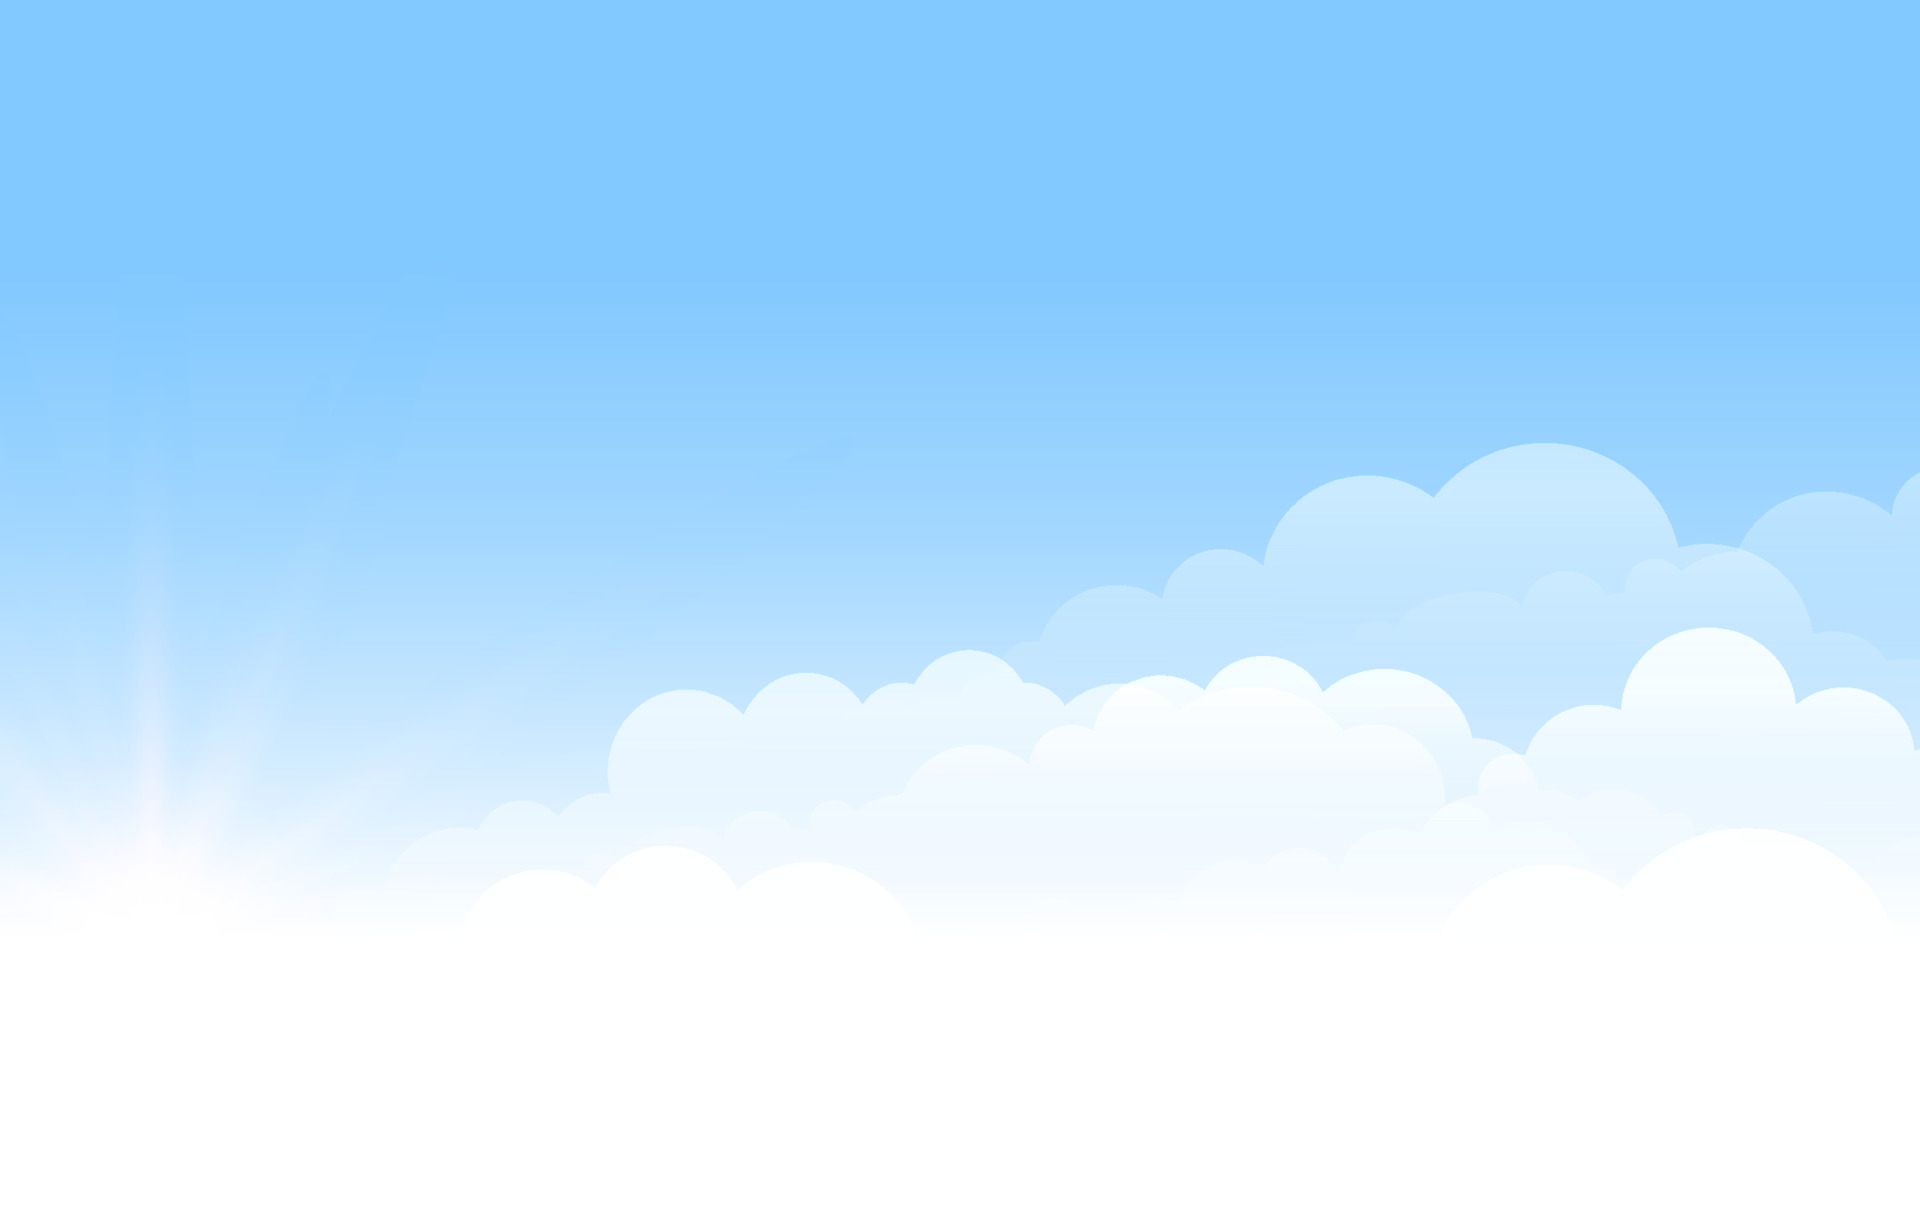
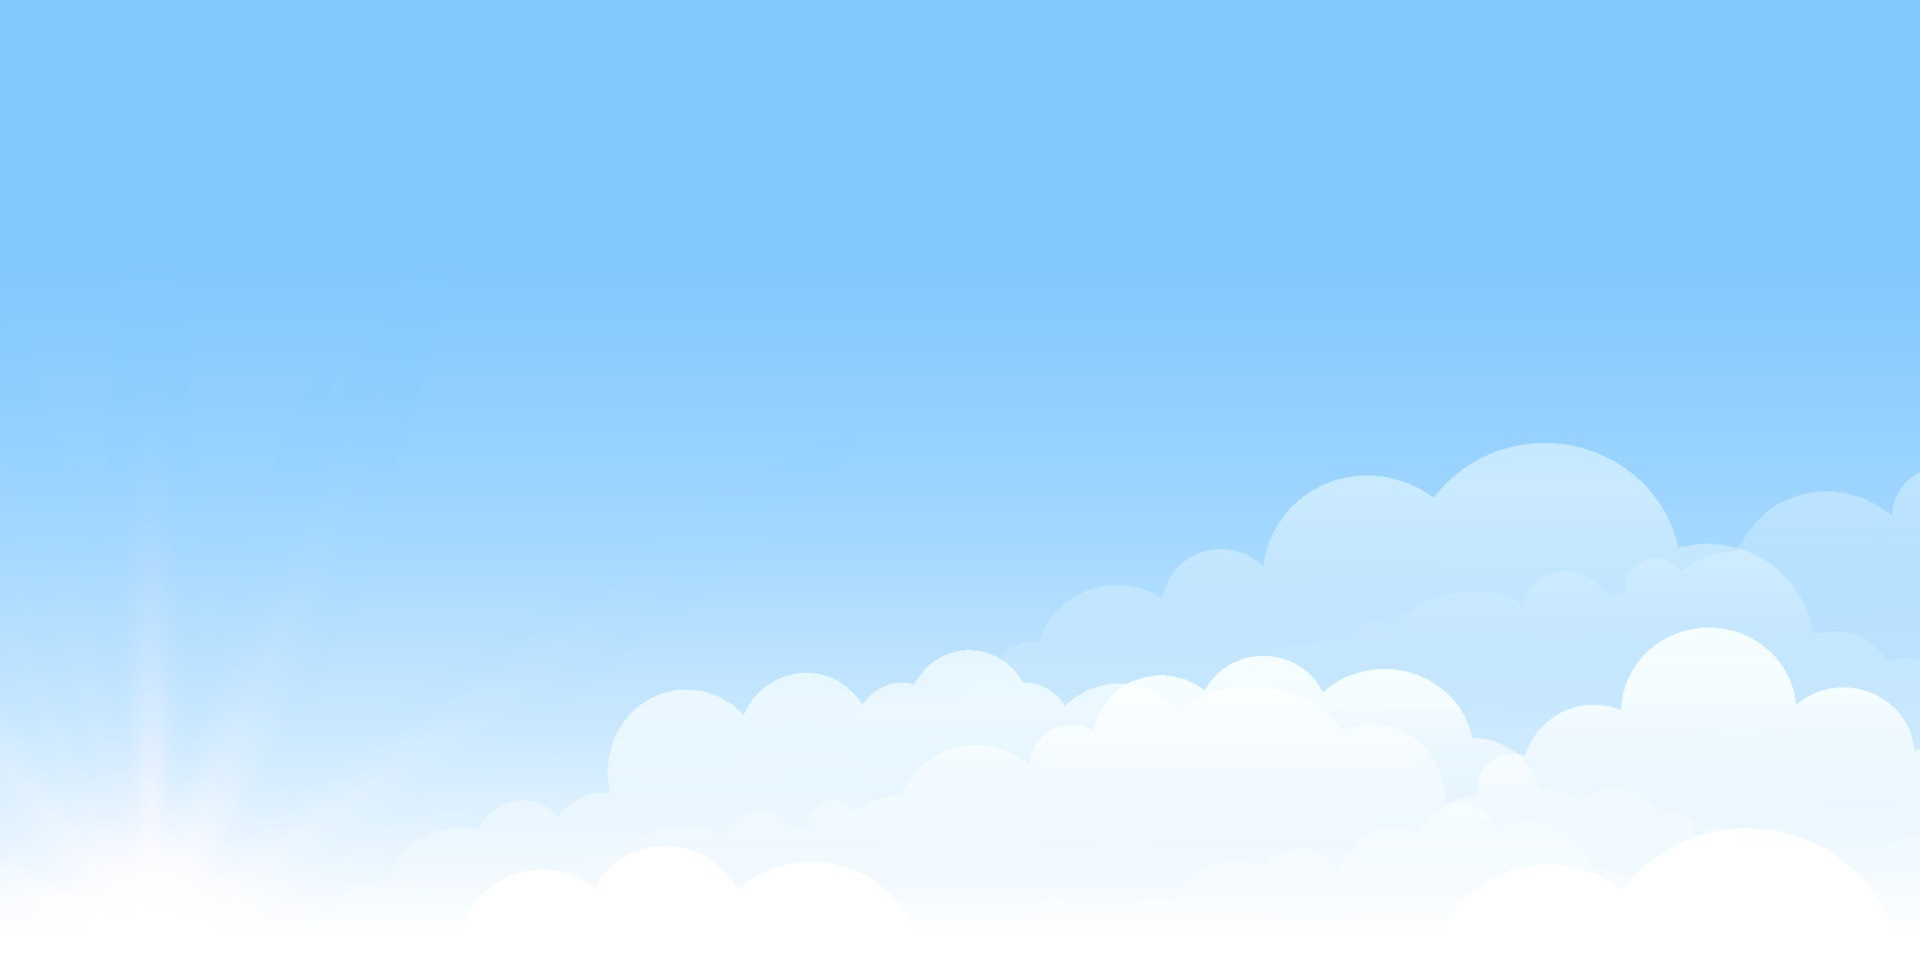
hardcoded a website layout

Changed region(s): [[0.0, 0.3438, 1.0, 0.875]]

diff --git a/index.html b/index.html
@@ -1,0 +1,90 @@
+<!DOCTYPE html>
+<html lang="en">
+
+<head>
+    <meta charset="UTF-8">
+    <meta name="viewport" content="width=device-width, initial-scale=1.0">
+    <title>Weather Forecast</title>
+    <link href="https://cdn.jsdelivr.net/npm/bootstrap@5.3.1/dist/css/bootstrap.min.css" rel="stylesheet"
+        integrity="sha384-4bw+/aepP/YC94hEpVNVgiZdgIC5+VKNBQNGCHeKRQN+PtmoHDEXuppvnDJzQIu9" crossorigin="anonymous">
+    <link rel="stylesheet" href="./assets/css/style.css">
+</head>
+
+<body style="background-image: url(./assets/img/cloud-background.jpg); background-repeat: no-repeat; background-size: cover">
+
+    <header>
+        <h1 class="text-center p-5 text-light display-3"><strong><small class="text-primary">Better</small> | Weather</strong></h1>
+    </header>
+
+    <div class="container-md">
+        <div class="row">
+            <div class="container border-3 col-md-3 col-12">
+                <form class="border-bottom border-dark border-3 py-3 col-auto">
+                    <label for="inputCityName" class="form-label h3 text-dark"><strong><u>Search for a City:</u></strong></label>
+                    <input type="password" class="form-control mb-3 py-3" id="inputCityName" placeholder="Enter city">
+                    <button type="button" class="btn btn-primary form-control py-2">Primary</button>
+                </form>
+                <button type="button" class="btn btn-secondary form-control py-2 my-3">Secondary 1</button>
+                <button type="button" class="btn btn-secondary form-control py-2 mb-3">Secondary 2</button>
+                <button type="button" class="btn btn-secondary form-control py-2 mb-3">Secondary 3</button>
+                <button type="button" class="btn btn-secondary form-control py-2 mb-3">Secondary 4</button>
+                <button type="button" class="btn btn-secondary form-control py-2 mb-3">Secondary 5</button>
+            </div>
+            <main class="container col-md-9 col-12">
+                <section class="p-3 col-auto">
+                    <div class="row">
+                        <h2 class="h3 col-sm-8 col-12"><strong>City Name ☀</strong></h2>
+                        <h3 class="h3 col-sm-4 col-12 text-sm-end text-start"><strong>Date</strong></h3>
+                    </div>
+
+                    <p>Temperature:</p>
+                    <p>Wind:</p>
+                    <p>Humidity:</p>
+                </section>
+                <section class="mt-3 p-3 col-auto">
+                    <h4 class="h3 mb-2"><strong>5-Day Forecast:</strong></h4>
+                    <div class="row justify-content-between">
+                        <div class="col-lg-2 col-12 bg-light border border-3 border-dark rounded p-2 my-3">
+                            <p>date</p>
+                            <p>emoji</p>
+                            <p>Temp:</p>
+                            <p>Wind: 3.37 MPH</p>
+                            <p>Humidity: 72%</p>
+                        </div>
+                        <div class="col-lg-2 col-12 bg-light border border-3 border-dark rounded p-2 my-3">
+                            <p>date</p>
+                            <p>emoji</p>
+                            <p>Temp:</p>
+                            <p>Wind:</p>
+                            <p>Humidity:</p>
+                        </div>
+                        <div class="col-lg-2 col-12 bg-light border border-3 border-dark rounded p-2 my-3">
+                            <p>date</p>
+                            <p>emoji</p>
+                            <p>Temp:</p>
+                            <p>Wind:</p>
+                            <p>Humidity:</p>
+                        </div>
+                        <div class="col-lg-2 col-12 bg-light border border-3 border-dark rounded p-2 my-3">
+                            <p>date</p>
+                            <p>emoji</p>
+                            <p>Temp:</p>
+                            <p>Wind:</p>
+                            <p>Humidity:</p>
+                        </div>
+                        <div class="col-lg-2 col-12 bg-light border border-3 border-dark rounded p-2 my-3">
+                            <p>date</p>
+                            <p>emoji</p>
+                            <p>Temp:</p>
+                            <p>Wind:</p>
+                            <p>Humidity:</p>
+                        </div>
+                    </div>
+
+                </section>
+            </main>
+        </div>
+    </div>
+</body>
+
+</html>
